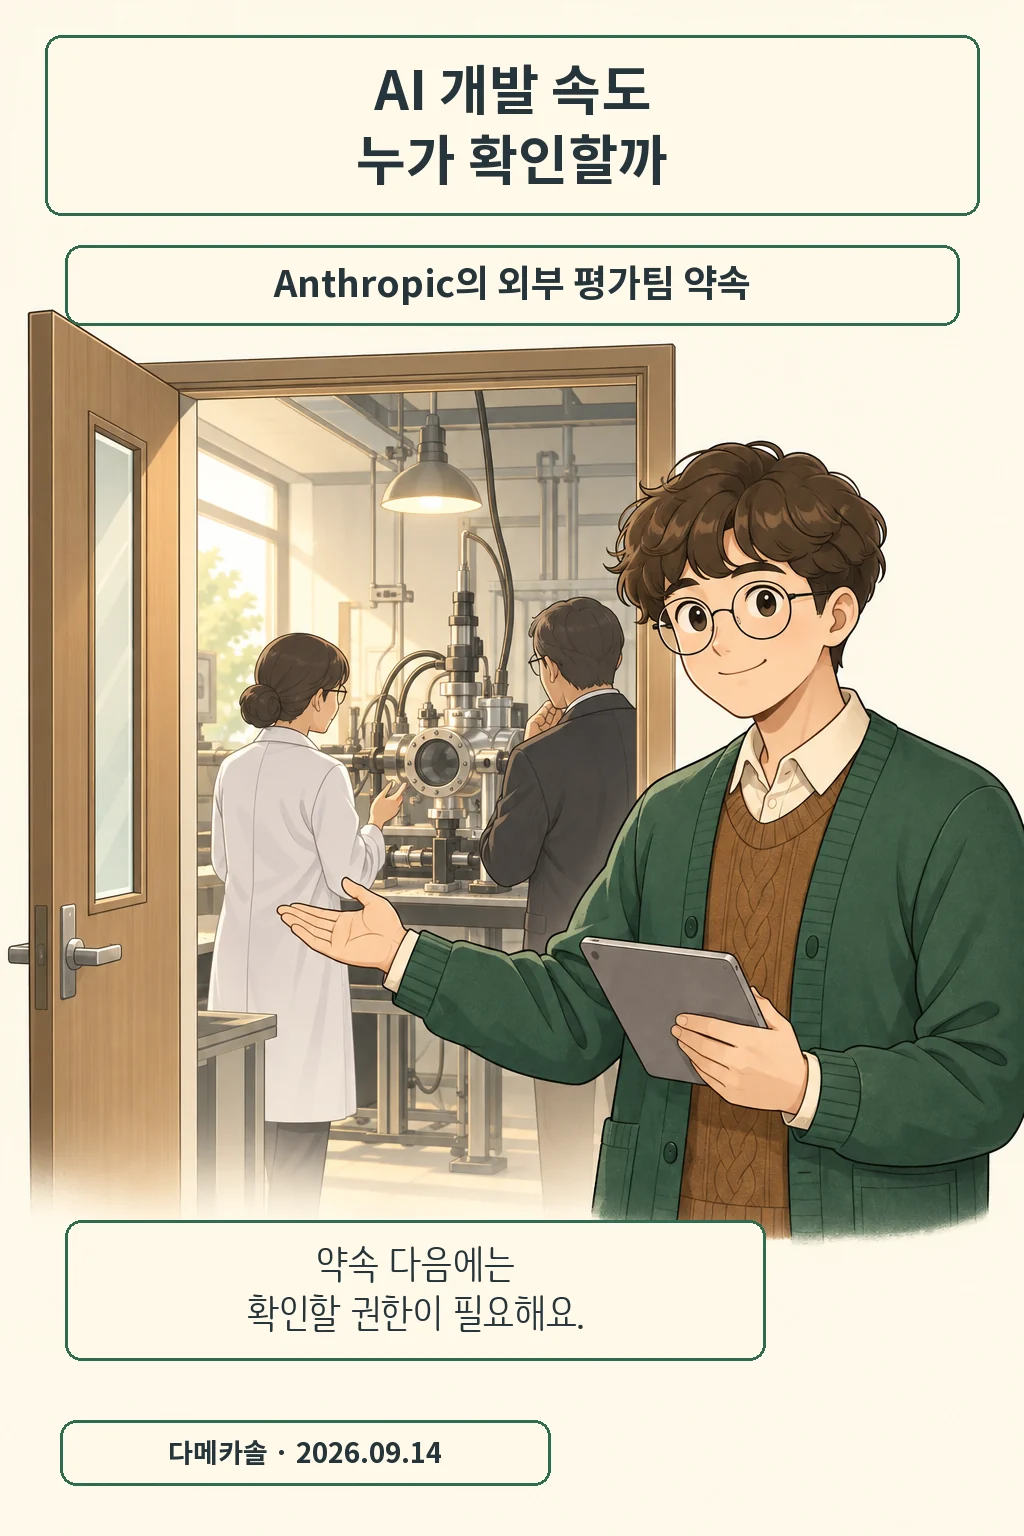
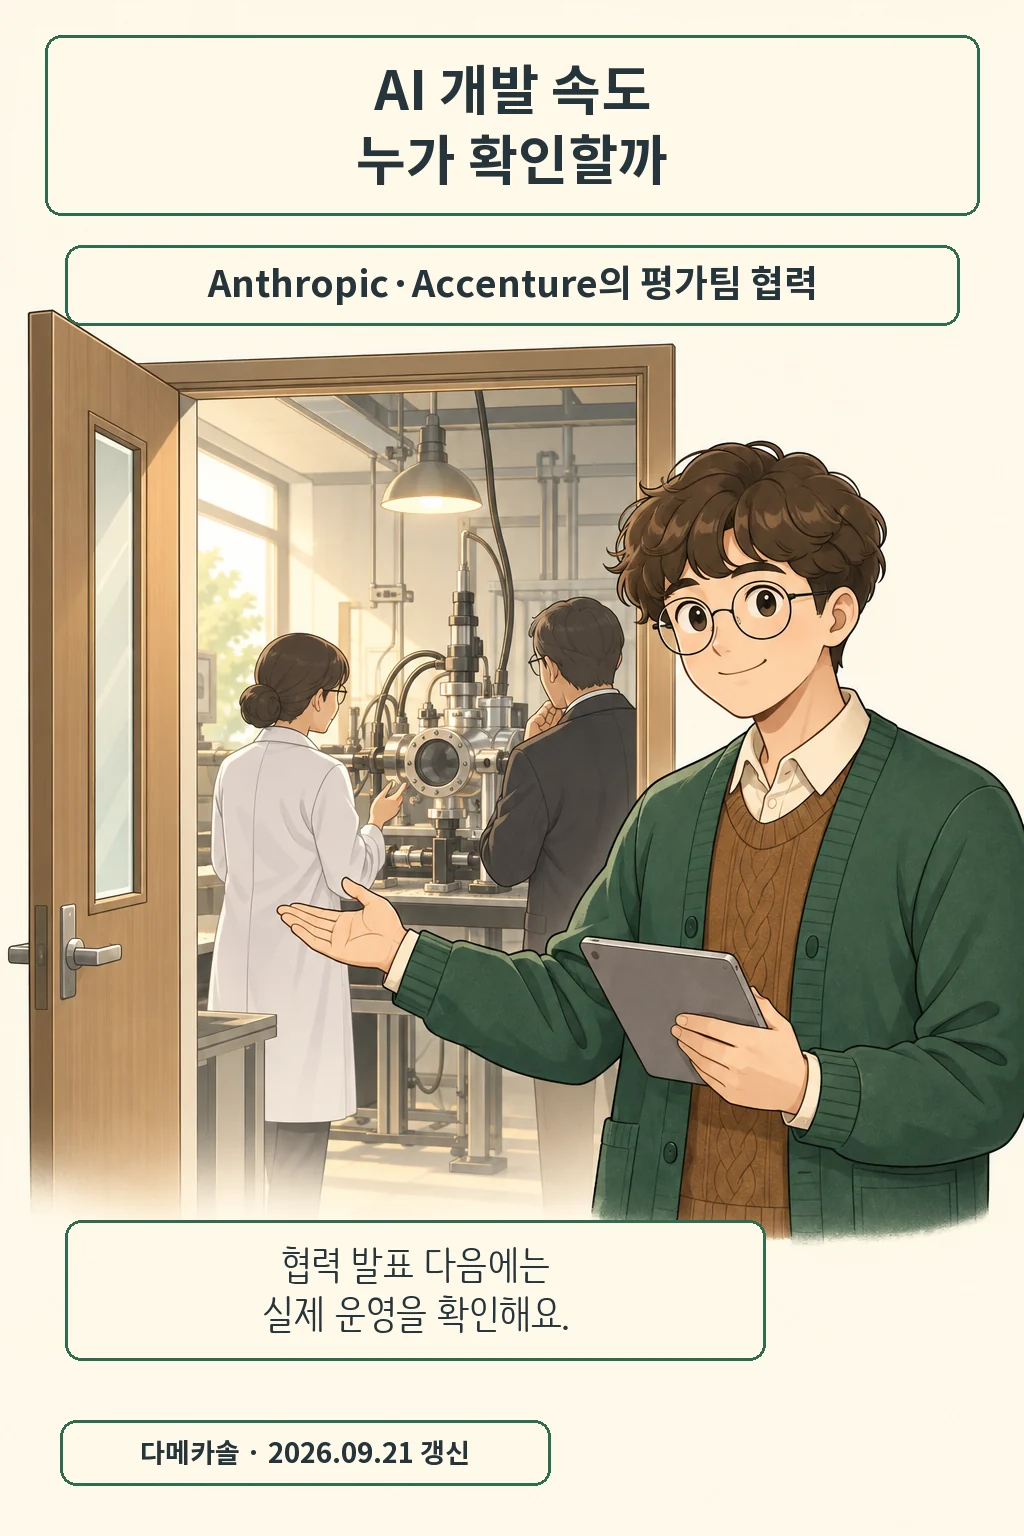
Update Anthropic evaluator article with Accenture partnership

Changed region(s): [[0.1875, 0.1562, 0.8125, 0.2188], [0.25, 0.8125, 0.5625, 0.875], [0.125, 0.9375, 0.4688, 0.9688]]

diff --git a/src/content/posts/anthropic-embedded-evaluators-pacing/index.md b/src/content/posts/anthropic-embedded-evaluators-pacing/index.md
@@ -1,54 +1,64 @@
 ---
-title: "Anthropic의 외부 평가팀 약속: AI 개발 속도를 누가 확인할까"
-description: "Anthropic의 상주 외부 평가팀 도입 약속에서 접근권과 발표권의 범위를 살피고, 초청 계획과 실제 운영 확인을 구분합니다."
+title: "Anthropic·Accenture 외부 평가팀: 협력 발표 뒤 확인할 것"
+description: "Anthropic·Accenture의 상주 외부 평가팀 협력 발표를 반영했습니다. 평가비 지급 관계와 미정인 운영 기준, 투자 전망과 실제 이행 증거를 구분합니다."
 slug: "anthropic-embedded-evaluators-pacing"
 publishedAt: "2026-09-14"
-updatedAt: "2026-09-14"
+updatedAt: "2026-09-21"
 track: "news"
 subtype: "announcement_analysis"
 tags: ["AI 안전", "AI 에이전트", "AI 규제"]
 audience: "developer"
-readerOutcome: "상주 외부 평가팀 도입 약속과 실제 운영, 업계 공동 제안을 구분하고 후속 검증에 필요한 공개 증거를 설명한다."
+readerOutcome: "외부 평가팀 협력 발표와 실제 운영 증거를 구분하고, 평가비 지급 관계와 접근·공개 기준을 함께 확인한다."
 contentFormats: ["article", "comic"]
 freshnessStatus: "current"
-reviewedAt: "2026-09-14"
-reviewAfter: "2026-09-21"
+reviewedAt: "2026-09-21"
+reviewAfter: "2026-09-28"
 cover: "./cover.webp"
 coverAlt: "외부 평가팀의 접근을 위해 열린 연구실 문을 살펴보는 카솔"
-sourceUrl: "https://darioamodei.com/post/we-must-pace-the-frontier"
+sourceUrl: "https://www.anthropic.com/news/accenture-embedded-evaluation"
 featured: false
 draft: false
 ---
 
-외부 평가자에게 연구실 안을 볼 권한을 주겠다는 약속이 나왔습니다. Anthropic의 다리오 아모데이는 [9월 에세이](https://darioamodei.com/post/we-must-pace-the-frontier)에서 AI 능력 향상 속도를 조절해 안전 검증 시간을 확보하자고 제안했습니다. 출발점은 상주 외부 평가팀입니다. 2026년 9월 14일 확인한 원문을 기준으로 약속과 이행을 나눠 읽었습니다.
+Anthropic과 Accenture가 2026년 9월 18일 [상주 외부 평가팀 협력](https://www.anthropic.com/news/accenture-embedded-evaluation)을 발표했습니다. 평가팀을 초청하겠다는 약속에 구체적인 협력사가 붙었습니다. Accenture의 AI 사업부 Faculty가 주도할 예정이며, 운영 세부사항은 계속 논의 중입니다. 9월 21일 확인한 양사 발표를 바탕으로 달라진 점을 정리했습니다.
 
 글·해설: 다메카솔
 
-Updated: 2026-09-14
+Updated: 2026-09-21
 
-## 문 안에서 확인할 수 있는 것
+## 초청 약속에서 협력사 발표로
 
 ![문밖에서 기다리던 외부 평가자가 연구 과정에 접근하는 도입 구상](./page-01.webp)
 
-평가팀에 지속적인 직원 유사 접근권을 주겠다고 아모데이는 밝혔습니다. 안전 관행 준수, 사건 보고, 학습 과정의 정렬 상태를 살피도록 하겠다는 구상입니다. 초청은 앞으로의 계획으로 서술돼 있습니다. 도입 약속과 배치 완료를 구분해야 합니다. 그림도 이 구상을 설명합니다.
+이제 협력사가 정해졌습니다. 양사는 모델 평가, 공격적인 시험으로 취약점을 찾는 레드팀, 정렬 평가와 안전장치 시험을 추진한다고 밝혔습니다. Anthropic은 평가자가 직원과 비슷한 접근권으로 학습 과정과 개발·배포 결정을 관찰하는 방식을 설명했습니다. 공개 자료가 확인해 주는 단계는 협력 발표까지이며, 팀 배치 완료나 평가 결과를 공개한 자료는 아닙니다.
 
-## 어디까지 보고 무엇을 발표하나
+앞서 다리오 아모데이는 [9월 에세이](https://darioamodei.com/post/we-must-pace-the-frontier)에서 안전 검증 시간을 확보하도록 AI 능력 향상 속도를 조절하자고 제안했습니다. 외부 팀 초청은 그때의 계획이었고, 이번 발표는 그 후속 조치입니다. 그림은 내부 과정을 관찰한다는 구상을 보여 줍니다.
 
-![도입 약속 뒤 실제 접근과 공개 결과를 확인하자는 카솔의 설명](./page-02.webp)
+## 평가비는 누가 내고, 결과는 누가 공개하나
 
-접근 범위에는 개인정보·계약·법적 예외가 붙습니다. 핵심 결과를 발표할 권리와 민감정보를 제한적으로 가릴 조건도 계약에 담겠다는 계획입니다. 민주국가 내 기업 협력과 국제 협력은 더 넓은 조정이 필요한 제안으로 남아 있습니다. 현재 원문만으로 공동 합의의 성립까지 확인할 수는 없습니다.
+![평가비 지급 관계와 공개 기준을 함께 확인하자는 카솔의 설명](./page-02.webp)
 
-비슷한 논의의 배경으로는 데미스 하사비스의 [7월 공동 평가기구 구상](https://demishassabis.substack.com/p/a-framework-for-frontier-ai-and-the-dawning-of-a-new-age)이 있습니다. 모델을 별도 기구가 검토하고 평가 기준을 갱신하는 제안입니다. 이는 이전 구상이며 이번에 체결된 합의를 뜻하지 않습니다. 아모데이가 인용한 [최근 정렬 사건에 대한 회사 평가](/posts/claude-cyber-incidents-alignment-assessment/)도 약속의 배경과 실제 검증 결과를 나눠 읽을 필요가 있습니다.
+Anthropic이 Accenture의 평가 업무 비용을 직접 지급할 계획입니다. 회사는 접근 정보와 보고 방식의 공통 기준, 안정된 재원 체계가 아직 없다고 설명했습니다. 비영리 평가자 METR 등과 자체 재원으로 시범 운영하는 방안도 논의 중입니다. 추가 평가자는 향후 발표할 계획이며 협력은 비독점입니다.
 
-## 다메카솔의 해석: 공개된 결과까지 따라가기
+[Accenture 발표](https://newsroom.accenture.com/news/2026/accenture-and-anthropic-partner-to-build-team-of-embedded-evaluators-at-anthropic)는 각 회사가 향후 5년간 AI 안전 역량에 최소 10억 달러씩 투자할 것으로 예상한다고 적었습니다. 긴 기간에 걸친 큰 규모의 약속입니다. 집행된 돈이나 평가 계약 대금이 확정됐다는 뜻으로 읽을 근거는 없으며, Accenture도 전망의 실현을 보장하지 않는다고 명시했습니다.
 
-저는 후속 소식에서 실제 접근 범위와 공개 결과를 먼저 보겠습니다. 평가팀에 이름을 올렸다는 소식만으로는 내부에서 어떤 작업을 관찰했는지 알기 어렵습니다. 예를 들어 시험 계획만 받은 경우와 실행 기록까지 대조한 경우라면, 독자가 부여할 신뢰도 달라져야 합니다. 이 예시는 원문의 실제 운영 사례를 옮긴 것이 아니라 제가 확인할 항목을 설명한 것입니다.
+원래 에세이는 개인정보·계약·법적 예외가 있는 접근권과 핵심 결과 발표권을 구상했습니다. 이번 발표에는 세부 운영 방식이 논의 중이라고 적혀 있습니다. 저는 두 자료를 합쳐 이미 완성된 운영 규칙처럼 읽기보다, 앞으로 공개될 조건과 대조할 기준으로 삼겠습니다. 모델 안전의 책임은 Anthropic에 남는다고 회사도 밝혔습니다.
 
-회사의 설명과 평가팀의 판단이 어긋났을 때 그 차이를 공개하는지도 살피겠습니다. 불리한 결과가 나온 뒤 접근 범위가 유지되는지, 막힌 정보가 무엇인지 독자에게 설명하는지에 따라 약속의 무게가 달라질 수 있습니다. 다음에 기다릴 소식은 평가팀이 현장에서 확인한 내용입니다.
+## 다메카솔의 해석: 기록 접근과 이견 공개가 관건
+
+평가팀 이름보다 먼저 살필 것은 관찰 범위입니다. 운영 시스템을 점검할 때 요약 보고서만 받는 것과 실패한 실행 기록까지 대조하는 것은 증거의 깊이가 다릅니다. 외부 평가자가 학습·배포 과정의 어떤 기록을 볼 수 있는지 공개해야 독자도 검증 범위를 판단할 수 있습니다. 이는 제가 운영 점검 원칙에 비춰 해석한 내용이며, 이번 평가팀의 실제 업무를 관찰했다는 뜻은 아닙니다.
+
+비용 지급 관계도 함께 봐야 합니다. 회사가 비용을 낸다는 사실만으로 평가가 편향됐다고 결론낼 수는 없지만, 불리한 결과를 발표할 권리와 이견이 생겼을 때의 처리 절차가 중요해집니다. [최근 정렬 사건에 대한 회사 평가](/posts/claude-cyber-incidents-alignment-assessment/)를 읽을 때도 같은 원칙이 적용됩니다. 저는 첫 공개 결과에서 확인한 범위와 접근하지 못한 범위를 함께 밝히는지 보겠습니다.
+
+배경이 된 데미스 하사비스의 [7월 공동 평가기구 구상](https://demishassabis.substack.com/p/a-framework-for-frontier-ai-and-the-dawning-of-a-new-age)과 아모데이의 업계·국제 조정 제안은 별도의 논의입니다. 이번 양사 협력 발표로 업계 전체가 합의했거나 모델 훈련을 멈췄다고 확장할 근거는 없습니다. Anthropic은 모델 학습과 출시를 계속한다고 밝혔습니다.
+
+> **업데이트 (2026-09-21)**: 9월 14일 글에서 외부 평가팀 초청 계획으로 설명했던 단계에 Accenture 협력 발표가 추가됐습니다. 9월 18일 양사 원문을 반영해 본문과 만화 문구를 갱신했으며, 최초 발행일과 URL은 유지했습니다.
 
 ## 출처
 
-- [Dario Amodei — We Must Pace the Frontier](https://darioamodei.com/post/we-must-pace-the-frontier): 원문 표기 2026년 9월. 현재 약속과 제안의 당사자 원문, 9월 14일 확인.
-- [Demis Hassabis — A Framework for Frontier AI and the Dawning of a New Age](https://demishassabis.substack.com/p/a-framework-for-frontier-ai-and-the-dawning-of-a-new-age): 2026년 7월 14일. 과거 제안의 배경 자료.
+- [Anthropic — Partnering with Accenture on embedded evaluation](https://www.anthropic.com/news/accenture-embedded-evaluation): 2026년 9월 18일. 협력·재원·운영 계획에 대한 당사자 발표.
+- [Accenture — Accenture and Anthropic Partner to Build Team of Embedded Evaluators at Anthropic](https://newsroom.accenture.com/news/2026/accenture-and-anthropic-partner-to-build-team-of-embedded-evaluators-at-anthropic): 2026년 9월 18일. 협력 범위와 투자 전망에 대한 상대 당사자 발표. 두 발표는 독립적인 운영 검증 결과와 구분했습니다.
+- [Dario Amodei — We Must Pace the Frontier](https://darioamodei.com/post/we-must-pace-the-frontier): 원문 표기 2026년 9월. 최초 약속과 제안의 배경.
+- [Demis Hassabis — A Framework for Frontier AI and the Dawning of a New Age](https://demishassabis.substack.com/p/a-framework-for-frontier-ai-and-the-dawning-of-a-new-age): 2026년 7월 14일. 이전 공동 평가기구 제안. 모든 원문은 9월 21일 재확인했습니다.
 
 이 글의 본문과 이미지는 생성형 AI로 제작했습니다. 기획과 편집 기준은 다메카솔이 정했습니다.
